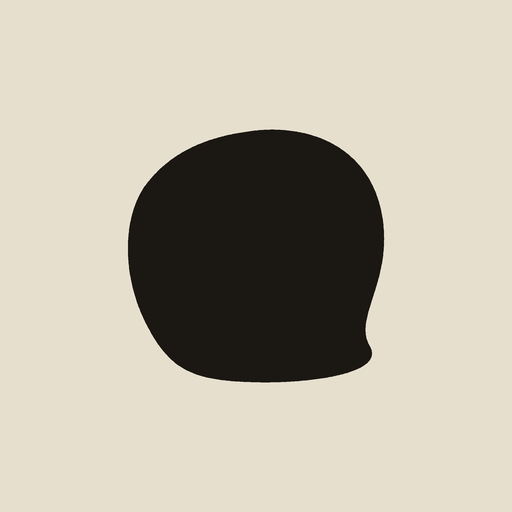
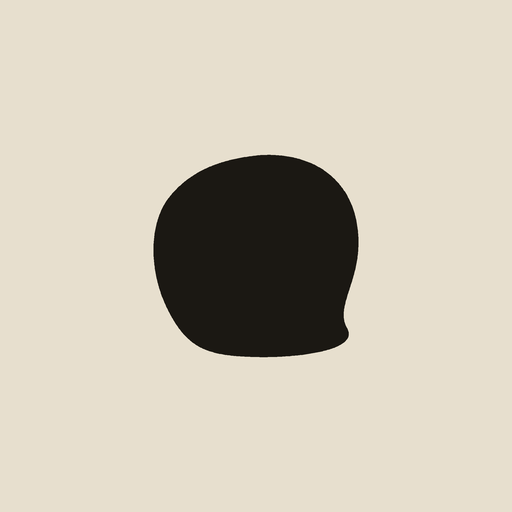
deploy: maskable blob 0.40 (SW v93)

Changed region(s): [[0.25, 0.25, 0.75, 0.75]]

diff --git a/sw.js b/sw.js
@@ -1,6 +1,6 @@
 // App-shell cache so the PWA installs and opens offline.
 // API + media always hit the network.
-const CACHE = "ink-app-v92";
+const CACHE = "ink-app-v93";
 const SHELL = ["./", "index.html", "app.js", "styles.css", "jsqr.js", "walnut.jpg", "manifest.webmanifest", "icon.svg", "icon-192.png", "icon-512.png", "icon-192-maskable.png", "icon-512-maskable.png", "apple-touch-icon.png"];
 
 self.addEventListener("install", (e) => {